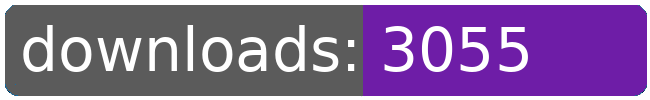
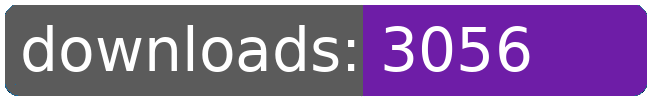
dl log written

Changed region(s): [[0.7692, 0.39, 0.8308, 0.72], [0.7692, 0.24, 0.8308, 0.36]]

diff --git a/README.md b/README.md
@@ -153,8 +153,8 @@
 		<td>3006</td>
 		<td>3025</td>
 		<td>3047</td>
-		<td>3055</td>
-		<td>+ 8</td>
+		<td>3056</td>
+		<td>+ 9</td>
 	</tr>
 	<tr>
 		<td>purchase.bactrian</td>
@@ -274,8 +274,8 @@
 		<td></td>
 		<td></td>
 		<td></td>
-		<td>59665</td>
-		<td>174</td>
+		<td>59666</td>
+		<td>175</td>
 	</tr>
 </table>
 </sub></sup>
@@ -399,8 +399,8 @@
 		<td>3006</td>
 		<td>3025</td>
 		<td>3047</td>
-		<td>3055</td>
-		<td>+ 8</td>
+		<td>3056</td>
+		<td>+ 9</td>
 	</tr>
 	<tr>
 		<td>unlimited.dfc</td>
@@ -553,8 +553,8 @@
 		<td></td>
 		<td></td>
 		<td></td>
-		<td>59665</td>
-		<td>174</td>
+		<td>59666</td>
+		<td>175</td>
 	</tr>
 </table>
 </sub></sup>
